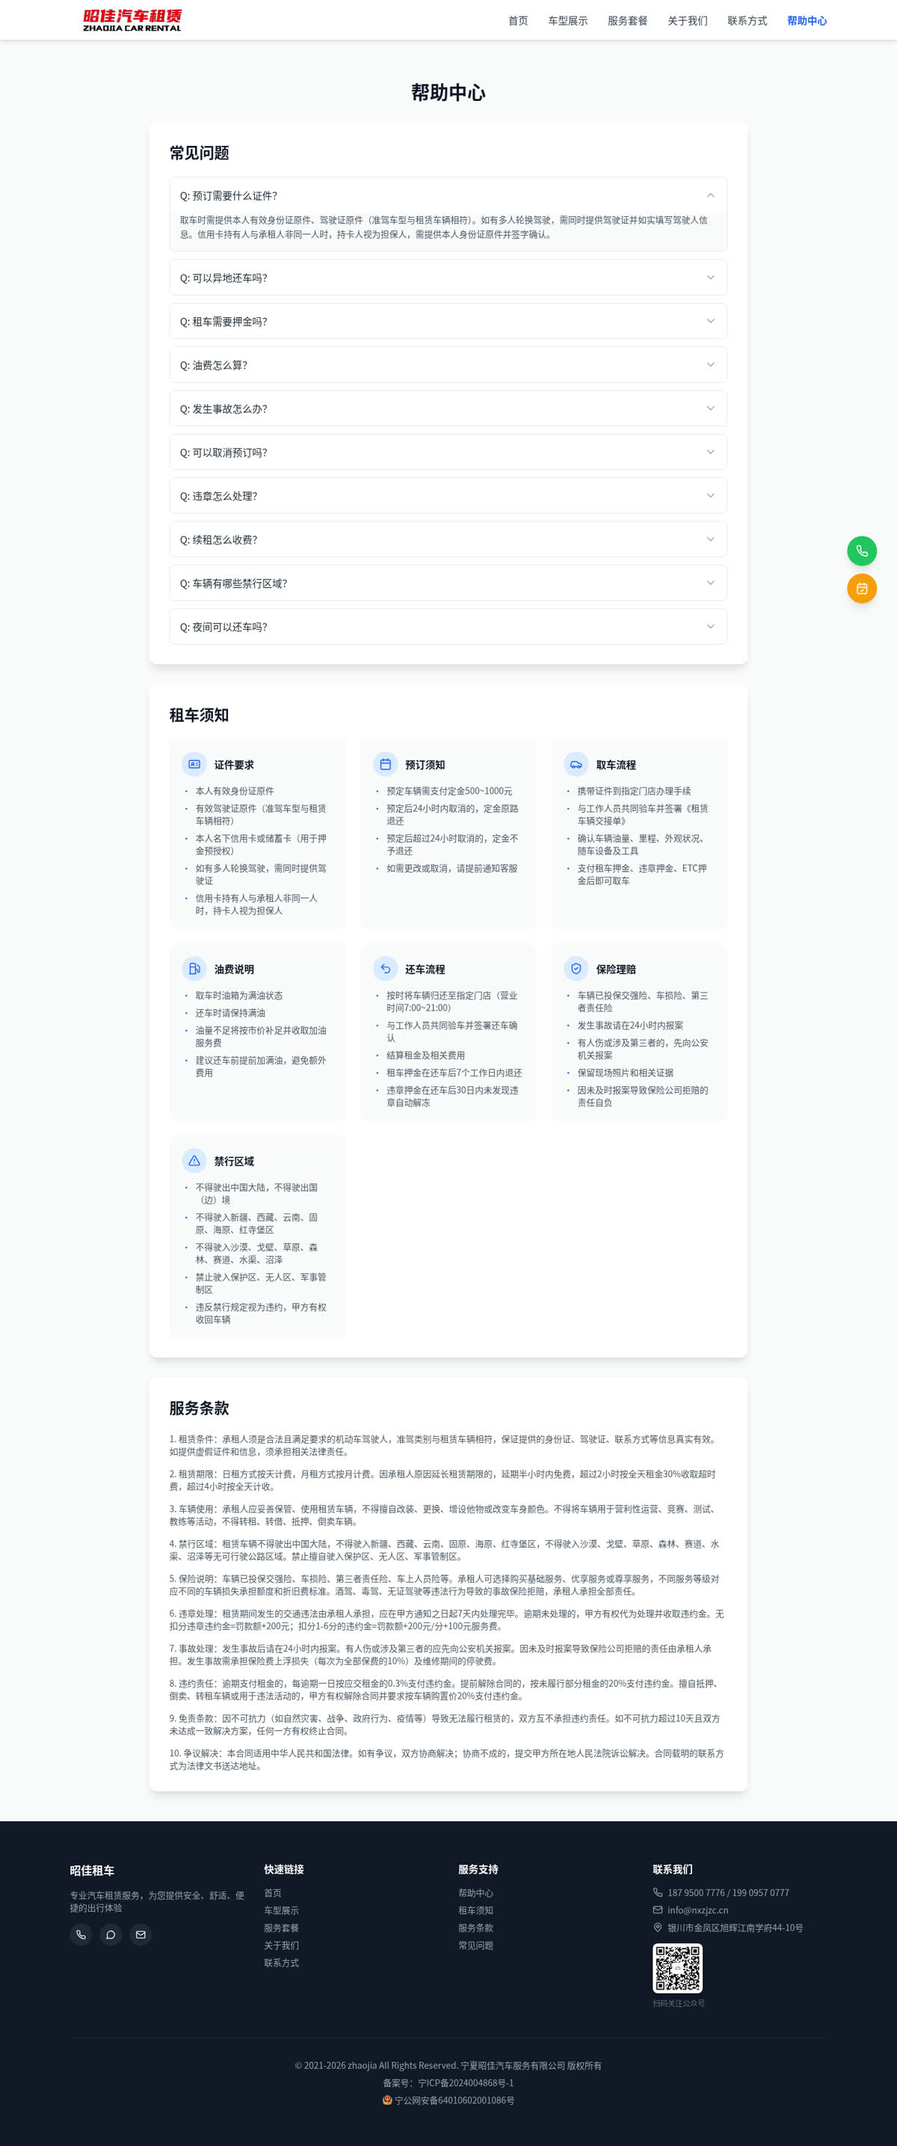
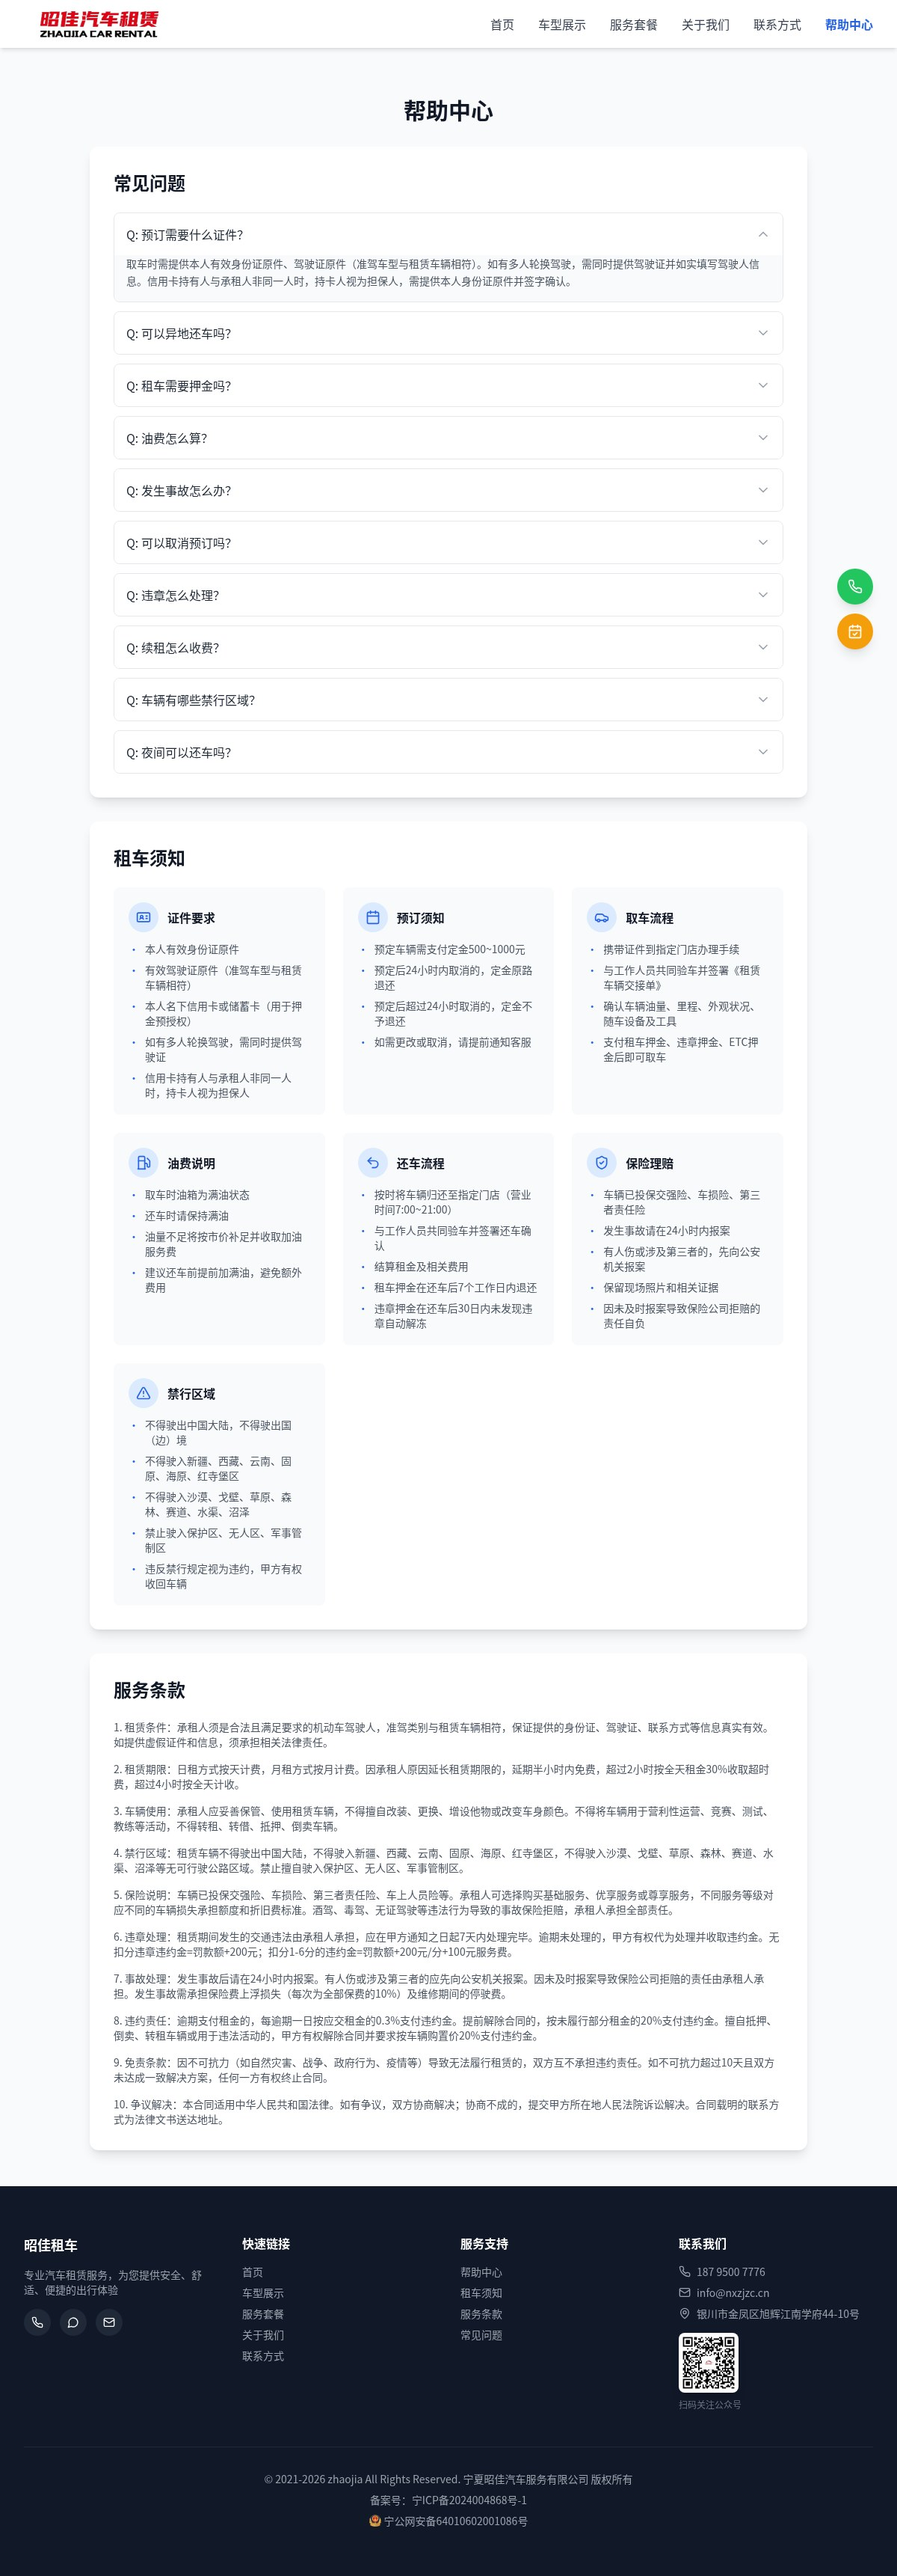
移除团队成员马跃，下线电话 199 0957 0777
- src/data/carRentalData.js：团队仅保留牛昭平、邵佳华、马富强；公司电话仅留 187 9500 7776
- HomeView 团队卡片改为 auto-fit 栅格，3 人时自动均分整行
- legacy/ 备份数据与页面同步清理（data.js、data-26.7.15.js、old.index.html、tank.html）
- README 联系方式同步；docs/screenshots 按新构建重拍

diff --git a/legacy/old.index.html b/legacy/old.index.html
@@ -207,17 +207,6 @@
             <a rel="nofollow" href="tel:18795007776"><i class="fas fa-phone">18795007776</i></a>
           </ul>
         </div>
-        
-        <div class="team-member">
-          <div class="profile-image">
-            <img src="https://mmbiz.qpic.cn/sz_mmbiz_jpg/KcvGCvl1pfyhHUGSMYTGWWfnRoSRwvCY5MHVqtibJGe7znpsrsANibq2zsnNXbvh4waev0KSAR1eqlUjiac0qsiaag/0?wx_fmt=jpeg&wxfrom=3" referrerPolicy="no-referrer" alt="银川租车,附近租车公司,宁夏昭佳汽车服务有限公司">
-          </div>
-          <h4 class="name">马跃</h4>
-          <p class="position">客户关系总监</p>
-          <ul class="social-links">
-            <a rel="nofollow" href="tel:19909570777"><i class="fas fa-phone">19909570777</i></a>
-          </ul>
-        </div>
       </div>
     </section>
     <section class="data-section">
@@ -255,7 +244,7 @@
       <div class="contact-us">
         <p class="menu-title">联系我们</p>
         <p>地址: 银川市金凤区旭辉江南学府44-10号 <a rel="nofollow" target="_blank" href="https://j.map.baidu.com/2c/MB5k">地图</a></p>
-        <p>电话: <a rel="nofollow" target="_blank" href="tel:18795007776">187 9500 7776</a>   /    <a rel="nofollow" target="_blank" href="tel:19909570777">199 0957 0777</a></p>
+        <p>电话: <a rel="nofollow" target="_blank" href="tel:18795007776">187 9500 7776</a></p>
         <p>传真：0951-5606667</p>
         <p>电子邮箱: <a rel="nofollow" target="_blank" href="mailto:info@nxzjzc.cn">info@nxzjzc.cn</a></p>
         <p>在线咨询: <a rel="nofollow" target="_blank" href="https://work.weixin.qq.com/kfid/kfc42e95c3df0359c55">客服</a></p>

diff --git a/src/data/carRentalData.js b/src/data/carRentalData.js
@@ -32,7 +32,7 @@ export const CarRentalData = {
     name: "昭佳租车",
     slogan: "昭佳租车，畅享出行",
     description: "专业汽车租赁服务，为您提供安全、舒适、便捷的出行体验",
-    phone: "187 9500 7776 / 199 0957 0777",
+    phone: "187 9500 7776",
     email: "info@nxzjzc.cn",
     fax: "0951-5606667",
     address: "银川市金凤区旭辉江南学府44-10号",
@@ -406,8 +406,7 @@ export const CarRentalData = {
   team: [
     { name: "牛昭平", role: "总经理", desc: "15年汽车行业经验，深耕租车服务领域", avatar: "https://api.dicebear.com/7.x/notionists/svg?seed=niuzhaoping" },
     { name: "邵佳华", role: "运营总监", desc: "专注客户体验优化，提升服务品质", avatar: "https://api.dicebear.com/7.x/notionists/svg?seed=shaojiahua" },
-    { name: "马富强", role: "车队经理", desc: "负责车辆维护保养，确保车况优良", avatar: "https://api.dicebear.com/7.x/notionists/svg?seed=马富强" },
-    { name: "马跃", role: "客户经理", desc: "用心服务每一位客户，解决用车问题", avatar: "https://api.dicebear.com/7.x/notionists/svg?seed=mayue" }
+    { name: "马富强", role: "车队经理", desc: "负责车辆维护保养，确保车况优良", avatar: "https://api.dicebear.com/7.x/notionists/svg?seed=马富强" }
   ],
 
   testimonials: [

diff --git a/legacy/data-26.7.15.js b/legacy/data-26.7.15.js
@@ -30,7 +30,7 @@ const CarRentalData = {
     name: "昭佳租车",
     slogan: "昭佳租车，畅享出行",
     description: "专业汽车租赁服务，为您提供安全、舒适、便捷的出行体验",
-    phone: "187 9500 7776 / 199 0957 0777",
+    phone: "187 9500 7776",
     email: "info@nxzjzc.cn",
     fax: "0951-5606667",
     address: "银川市金凤区旭辉江南学府44-10号",
@@ -404,8 +404,7 @@ const CarRentalData = {
   team: [
     { name: "牛昭平", role: "总经理", desc: "15年汽车行业经验，深耕租车服务领域", avatar: "https://api.dicebear.com/7.x/notionists/svg?seed=niuzhaoping" },
     { name: "邵佳华", role: "运营总监", desc: "专注客户体验优化，提升服务品质", avatar: "https://api.dicebear.com/7.x/notionists/svg?seed=shaojiahua" },
-    { name: "马富强", role: "车队经理", desc: "负责车辆维护保养，确保车况优良", avatar: "https://api.dicebear.com/7.x/notionists/svg?seed=马富强" },
-    { name: "马跃", role: "客户经理", desc: "用心服务每一位客户，解决用车问题", avatar: "https://api.dicebear.com/7.x/notionists/svg?seed=mayue" }
+    { name: "马富强", role: "车队经理", desc: "负责车辆维护保养，确保车况优良", avatar: "https://api.dicebear.com/7.x/notionists/svg?seed=马富强" }
   ],
 
   testimonials: [

diff --git a/legacy/data.js b/legacy/data.js
@@ -30,7 +30,7 @@ const CarRentalData = {
     name: "昭佳租车",
     slogan: "昭佳租车，畅享出行",
     description: "专业汽车租赁服务，为您提供安全、舒适、便捷的出行体验",
-    phone: "187 9500 7776 / 199 0957 0777",
+    phone: "187 9500 7776",
     email: "info@nxzjzc.cn",
     fax: "0951-5606667",
     address: "银川市金凤区旭辉江南学府44-10号",
@@ -404,8 +404,7 @@ const CarRentalData = {
   team: [
     { name: "牛昭平", role: "总经理", desc: "15年汽车行业经验，深耕租车服务领域", avatar: "https://api.dicebear.com/7.x/notionists/svg?seed=niuzhaoping" },
     { name: "邵佳华", role: "运营总监", desc: "专注客户体验优化，提升服务品质", avatar: "https://api.dicebear.com/7.x/notionists/svg?seed=shaojiahua" },
-    { name: "马富强", role: "车队经理", desc: "负责车辆维护保养，确保车况优良", avatar: "https://api.dicebear.com/7.x/notionists/svg?seed=马富强" },
-    { name: "马跃", role: "客户经理", desc: "用心服务每一位客户，解决用车问题", avatar: "https://api.dicebear.com/7.x/notionists/svg?seed=mayue" }
+    { name: "马富强", role: "车队经理", desc: "负责车辆维护保养，确保车况优良", avatar: "https://api.dicebear.com/7.x/notionists/svg?seed=马富强" }
   ],
 
   testimonials: [

diff --git a/legacy/tank.html b/legacy/tank.html
@@ -183,7 +183,7 @@
       <div class="contact-us">
         <p class="menu-title">联系我们</p>
         <p>地址: 银川市金凤区上海西路548号 <a rel="nofollow" target="_blank" href="https://map.baidu.com/mobile/webapp/place/detail/foo=bar&qt=ninf&wd=宁夏昭佳汽车服务有限公司&c=131&searchFlag=sort&center_rank=1&nb_x=11821718.64&nb_y=4622957.40&da_src=unifynearbyclick&uid=7613840a5a67452b940319f6&industry=&qid=&pos=&da_ref=&da_qrtp=&da_adquery=&da_adtitle=昭佳汽车租赁&da_adindus=汽车服务;汽车租赁&detail_from=list&vt=map/?fromhash=1">地图</a></p>
-        <p>电话: <a rel="nofollow" target="_blank" href="tel:18795007776">187 9500 7776</a>   /    <a rel="nofollow" target="_blank" href="tel:19909570777">199 0957 0777</a></p>
+        <p>电话: <a rel="nofollow" target="_blank" href="tel:18795007776">187 9500 7776</a></p>
         <p>传真：0951-5606667</p>
         <p>电子邮箱: <a rel="nofollow" target="_blank" href="mailto:info@nxzjzc.cn">info@nxzjzc.cn</a></p>
         <p>在线咨询: <a rel="nofollow" target="_blank" href="https://work.weixin.qq.com/kfid/kfc42e95c3df0359c55">客服</a></p>

diff --git a/src/views/HomeView.vue b/src/views/HomeView.vue
@@ -119,7 +119,8 @@ function onAvatarError(event, name) {
       <div class="max-w-7xl mx-auto px-4 sm:px-6 lg:px-8">
         <h2 class="text-3xl font-bold text-center mb-4 text-gray-900">团队成员</h2>
         <p class="text-center text-gray-600 mb-12">专业团队，用心服务每一位客户！</p>
-        <div class="grid md:grid-cols-4 gap-8">
+        <!-- auto-fit：成员数量变化时卡片自动均分整行，避免出现空缺列 -->
+        <div class="grid gap-8 [grid-template-columns:repeat(auto-fit,minmax(240px,1fr))]">
           <div
             v-for="member in team"
             :key="member.name"

diff --git a/README.md b/README.md
@@ -229,7 +229,7 @@ npx wrangler tail zjwebhook
 
 ## 联系方式
 
-- 电话: 187 9500 7776 / 199 0957 0777
+- 电话: 187 9500 7776
 - 邮箱: info@nxzjzc.cn
 - 地址: 银川市金凤区旭辉江南学府44-10号
 
